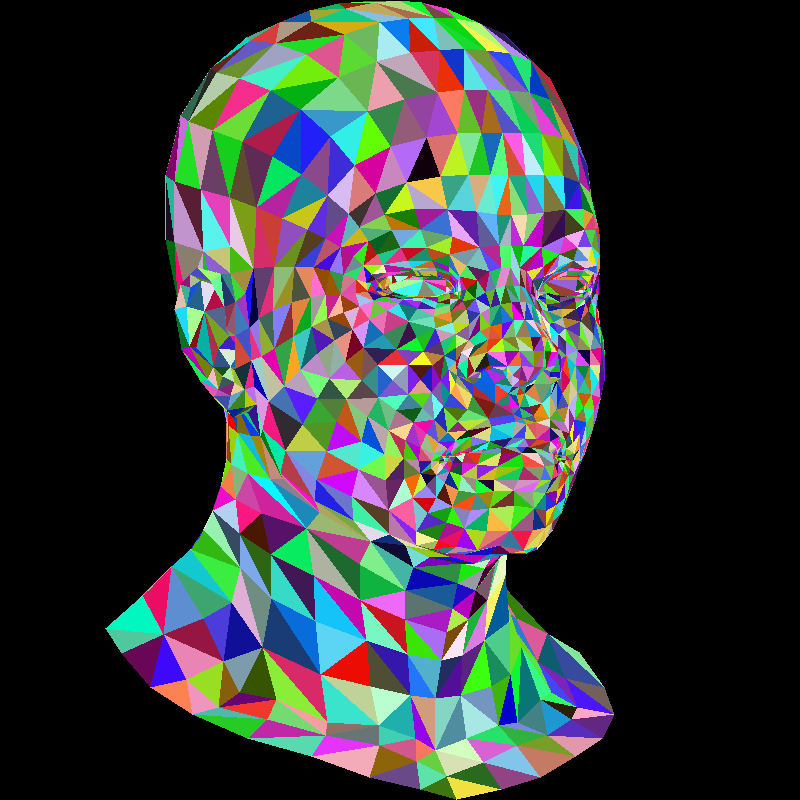
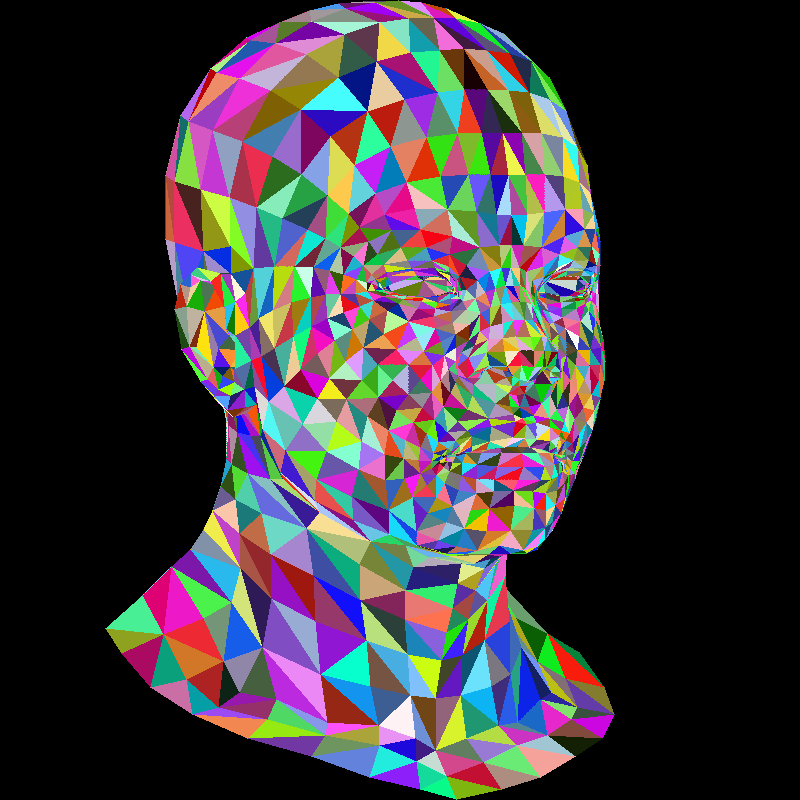
bugfixes

diff --git a/crates/tinyrenderer/src/main.rs b/crates/tinyrenderer/src/main.rs
@@ -1,5 +1,5 @@
 #![allow(dead_code)]
-use image::{GrayImage, Luma, Pixel, Rgb, RgbImage, imageops::flip_vertical_in_place};
+use image::{Pixel, Rgb, RgbImage, imageops::flip_vertical_in_place};
 use nalgebra::{Matrix3, Point2};
 use rayon::prelude::*;
 use std::{f32::consts::PI, path::PathBuf};
@@ -20,11 +20,11 @@ const WIDTH: u32 = 800;
 type Coord = Point2<u32>;
 
 fn bbox(a: Coord, b: Coord, c: Coord) -> (Coord, Coord) {
-    let xmin = *[a.x, b.x, c.x].iter().min().unwrap();
-    let ymin = *[a.y, b.y, c.y].iter().min().unwrap();
+    let xmin = (*[a.x, b.x, c.x].iter().min().unwrap()).clamp(0, WIDTH - 1);
+    let ymin = (*[a.y, b.y, c.y].iter().min().unwrap()).clamp(0, HEIGHT - 1);
 
-    let xmax = *[a.x, b.x, c.x].iter().max().unwrap();
-    let ymax = *[a.y, b.y, c.y].iter().max().unwrap();
+    let xmax = (*[a.x, b.x, c.x].iter().max().unwrap()).clamp(0, WIDTH - 1);
+    let ymax = (*[a.y, b.y, c.y].iter().max().unwrap()).clamp(0, HEIGHT - 1);
 
     (Coord::new(xmin, ymin), Coord::new(xmax, ymax))
 }
@@ -51,46 +51,48 @@ fn triangle(
 
     let area_abc = signed_area(a, b, c);
 
+    // if triangle is degenerate
     if area_abc == 0.0 {
         return;
     }
 
+    let inv_area = 1.0 / area_abc;
+
     let buf = img.as_mut();
 
-    let zbuf = z_buffer.as_mut();
+    let img_stride = WIDTH as usize * Rgb::<u8>::CHANNEL_COUNT as usize;
 
-    let rgb_stride = WIDTH as usize * Rgb::<u8>::CHANNEL_COUNT as usize * size_of::<u8>();
-
-    let gray_stride = WIDTH as usize * Luma::<u8>::CHANNEL_COUNT as usize * size_of::<u8>();
-
-    buf.par_chunks_mut(rgb_stride)
-        .zip(zbuf.par_chunks_mut(gray_stride))
+    buf.par_chunks_mut(img_stride)
+        .zip(z_buffer.par_chunks_mut(WIDTH as usize))
         .enumerate()
         .for_each(|(y, (img_row, zbuf_row))| {
-            if (bbmin.y..bbmax.y).contains(&(y as u32)) {
-                for x in bbmin.x..bbmax.x {
-                    let y = y as u32;
-                    let p = Coord::new(x, y);
+            let y = y as u32;
 
-                    let alpha = signed_area(p, b, c) / area_abc;
-                    let beta = signed_area(a, p, c) / area_abc;
-                    let gamma = signed_area(a, b, p) / area_abc;
+            if y < bbmin.y || y > bbmax.y {
+                return;
+            }
 
-                    let z = alpha * za + beta * zb + gamma * zc;
+            for x in bbmin.x..=bbmax.x {
+                let p = Coord::new(x, y);
 
-                    let z_idx = x as usize;
+                let alpha = signed_area(p, b, c) * inv_area;
+                let beta = signed_area(a, p, c) * inv_area;
+                let gamma = signed_area(a, b, p) * inv_area;
 
-                    if alpha >= 0.0 && gamma >= 0.0 && beta >= 0.0 && z >= zbuf_row[z_idx] {
-                        let img_idx = (x * 3) as usize;
-                        img_row[img_idx..img_idx + 3].copy_from_slice(&color.0);
-                        zbuf_row[z_idx] = z;
-                    }
+                let z = alpha * za + beta * zb + gamma * zc;
+
+                let z_idx = x as usize;
+
+                if alpha >= 0.0 && gamma >= 0.0 && beta >= 0.0 && z >= zbuf_row[z_idx] {
+                    let img_idx = (x * 3) as usize;
+                    img_row[img_idx..img_idx + 3].copy_from_slice(&color.0);
+                    zbuf_row[z_idx] = z;
                 }
             }
         });
 }
 
-fn project_transform_scale(v: &Vertex) -> Vertex {
+fn project(v: &Vertex) -> Vertex {
     // orthogonal projection
     // front view (looking down z-axis)
     // [-1, 1] -> [0, 2]
@@ -100,7 +102,7 @@ fn project_transform_scale(v: &Vertex) -> Vertex {
     let v = (
         v.0 * (WIDTH - 1) as f32 / 2.0,
         v.1 * (HEIGHT - 1) as f32 / 2.0,
-        v.2 * (255.0) / 2.0,
+        v.2,
     );
 
     Vertex::new(v.0, v.1, v.2)
@@ -126,12 +128,9 @@ fn persp(v: &Vertex) -> Vertex {
 }
 
 fn draw_wavefront(img: &mut RgbImage, wavefront: &Wavefront) {
-    let mut z_buffer = vec![0.0; (WIDTH * HEIGHT) as usize];
+    let mut z_buffer = vec![-f32::INFINITY; (WIDTH * HEIGHT) as usize];
 
-    for [a, b, c] in wavefront
-        .triangles()
-        .map(|t| t.map(|v| project_transform_scale(&rot(v))))
-    {
+    for [a, b, c] in wavefront.triangles().map(|t| t.map(|v| project(&rot(v)))) {
         let color: Rgb<u8> = Rgb(rand::random());
 
         triangle(img, &mut z_buffer, a, b, c, color);
@@ -147,16 +146,12 @@ fn main() -> anyhow::Result<()> {
     let wavefront = Wavefront::read_from_file(&path)?;
 
     let mut img = RgbImage::new(WIDTH, HEIGHT);
-    let mut z_buffer = GrayImage::new(WIDTH, HEIGHT);
 
     draw_wavefront(&mut img, &wavefront);
 
     // because the tutorial uses a different coordinate system than ours
     flip_vertical_in_place(&mut img);
     img.save("out.png")?;
-
-    flip_vertical_in_place(&mut z_buffer);
-    z_buffer.save("zbuffer.png")?;
 
     Ok(())
 }

diff --git a/log/6-rotation-and-projection.md b/log/6-rotation-and-projection.md
@@ -1,0 +1,67 @@
+---
+date: 03/03/2026
+crate: crates/tinyrenderer
+---
+---
+**Goals:**
+- continue with tinyrenderer
+- revisit matrices
+- rotation and projection
+---
+
+For this chapter, I've refactored the code to use primitives from the `nalgebra` crate. See this commit [c8cf09e](https://github.com/hedonhermdev/mythr/commit/c8cf09eea05e7447d0d5adc3a2e630553645195e) 
+
+First we'll try a basic rotation using a rotation matrix. 
+
+As an example, let's rotate the figure by 30 degrees along the y axis. 
+
+```rust
+fn rot(v: &Vertex) -> Vertex {
+    let angle = PI / 6.0;
+
+    #[rustfmt::skip]
+    let mat = Matrix3::new(
+        f32::cos(angle), 0.0, f32::sin(angle),
+        0.0, 1.0, 0.0,
+        -f32::sin(angle), 0.0, f32::cos(angle),
+    );
+
+    mat * v
+}
+```
+
+```rust
+fn draw_wavefront(img: &mut RgbImage, wavefront: &Wavefront) {
+    for [a, b, c] in wavefront.triangles() {
+        let color: Rgb<u8> = Rgb(rand::random());
+        let a = project_transform_scale(&rot(a));
+        let b = project_transform_scale(&rot(b));
+        let c = project_transform_scale(&rot(c));
+
+        triangle(img, a, b, c, color);
+    }
+}
+```
+
+We get a rotated render of the model. 
+
+| ![rotation-1.png](./media/rotation-1.png) | ![rotation-2.png](./media/rotation-2.png) |
+| ------------------- | ------------------- |
+
+## Projection
+
+Instead of using an orthographic projection, we can use a central projection. This has one major advantage: closer objects appear larger than distant ones. For a camera located at `(0 0 3)`
+
+```rust
+fn persp(v: &Vertex) -> Vertex {
+    let c = 3.0;
+
+    v / (1.0 - (v.z / c))
+}
+```
+
+
+![rotation-3.png](./media/rotation-3.png)
+
+This gives a much more realistic view to our renders. 
+
